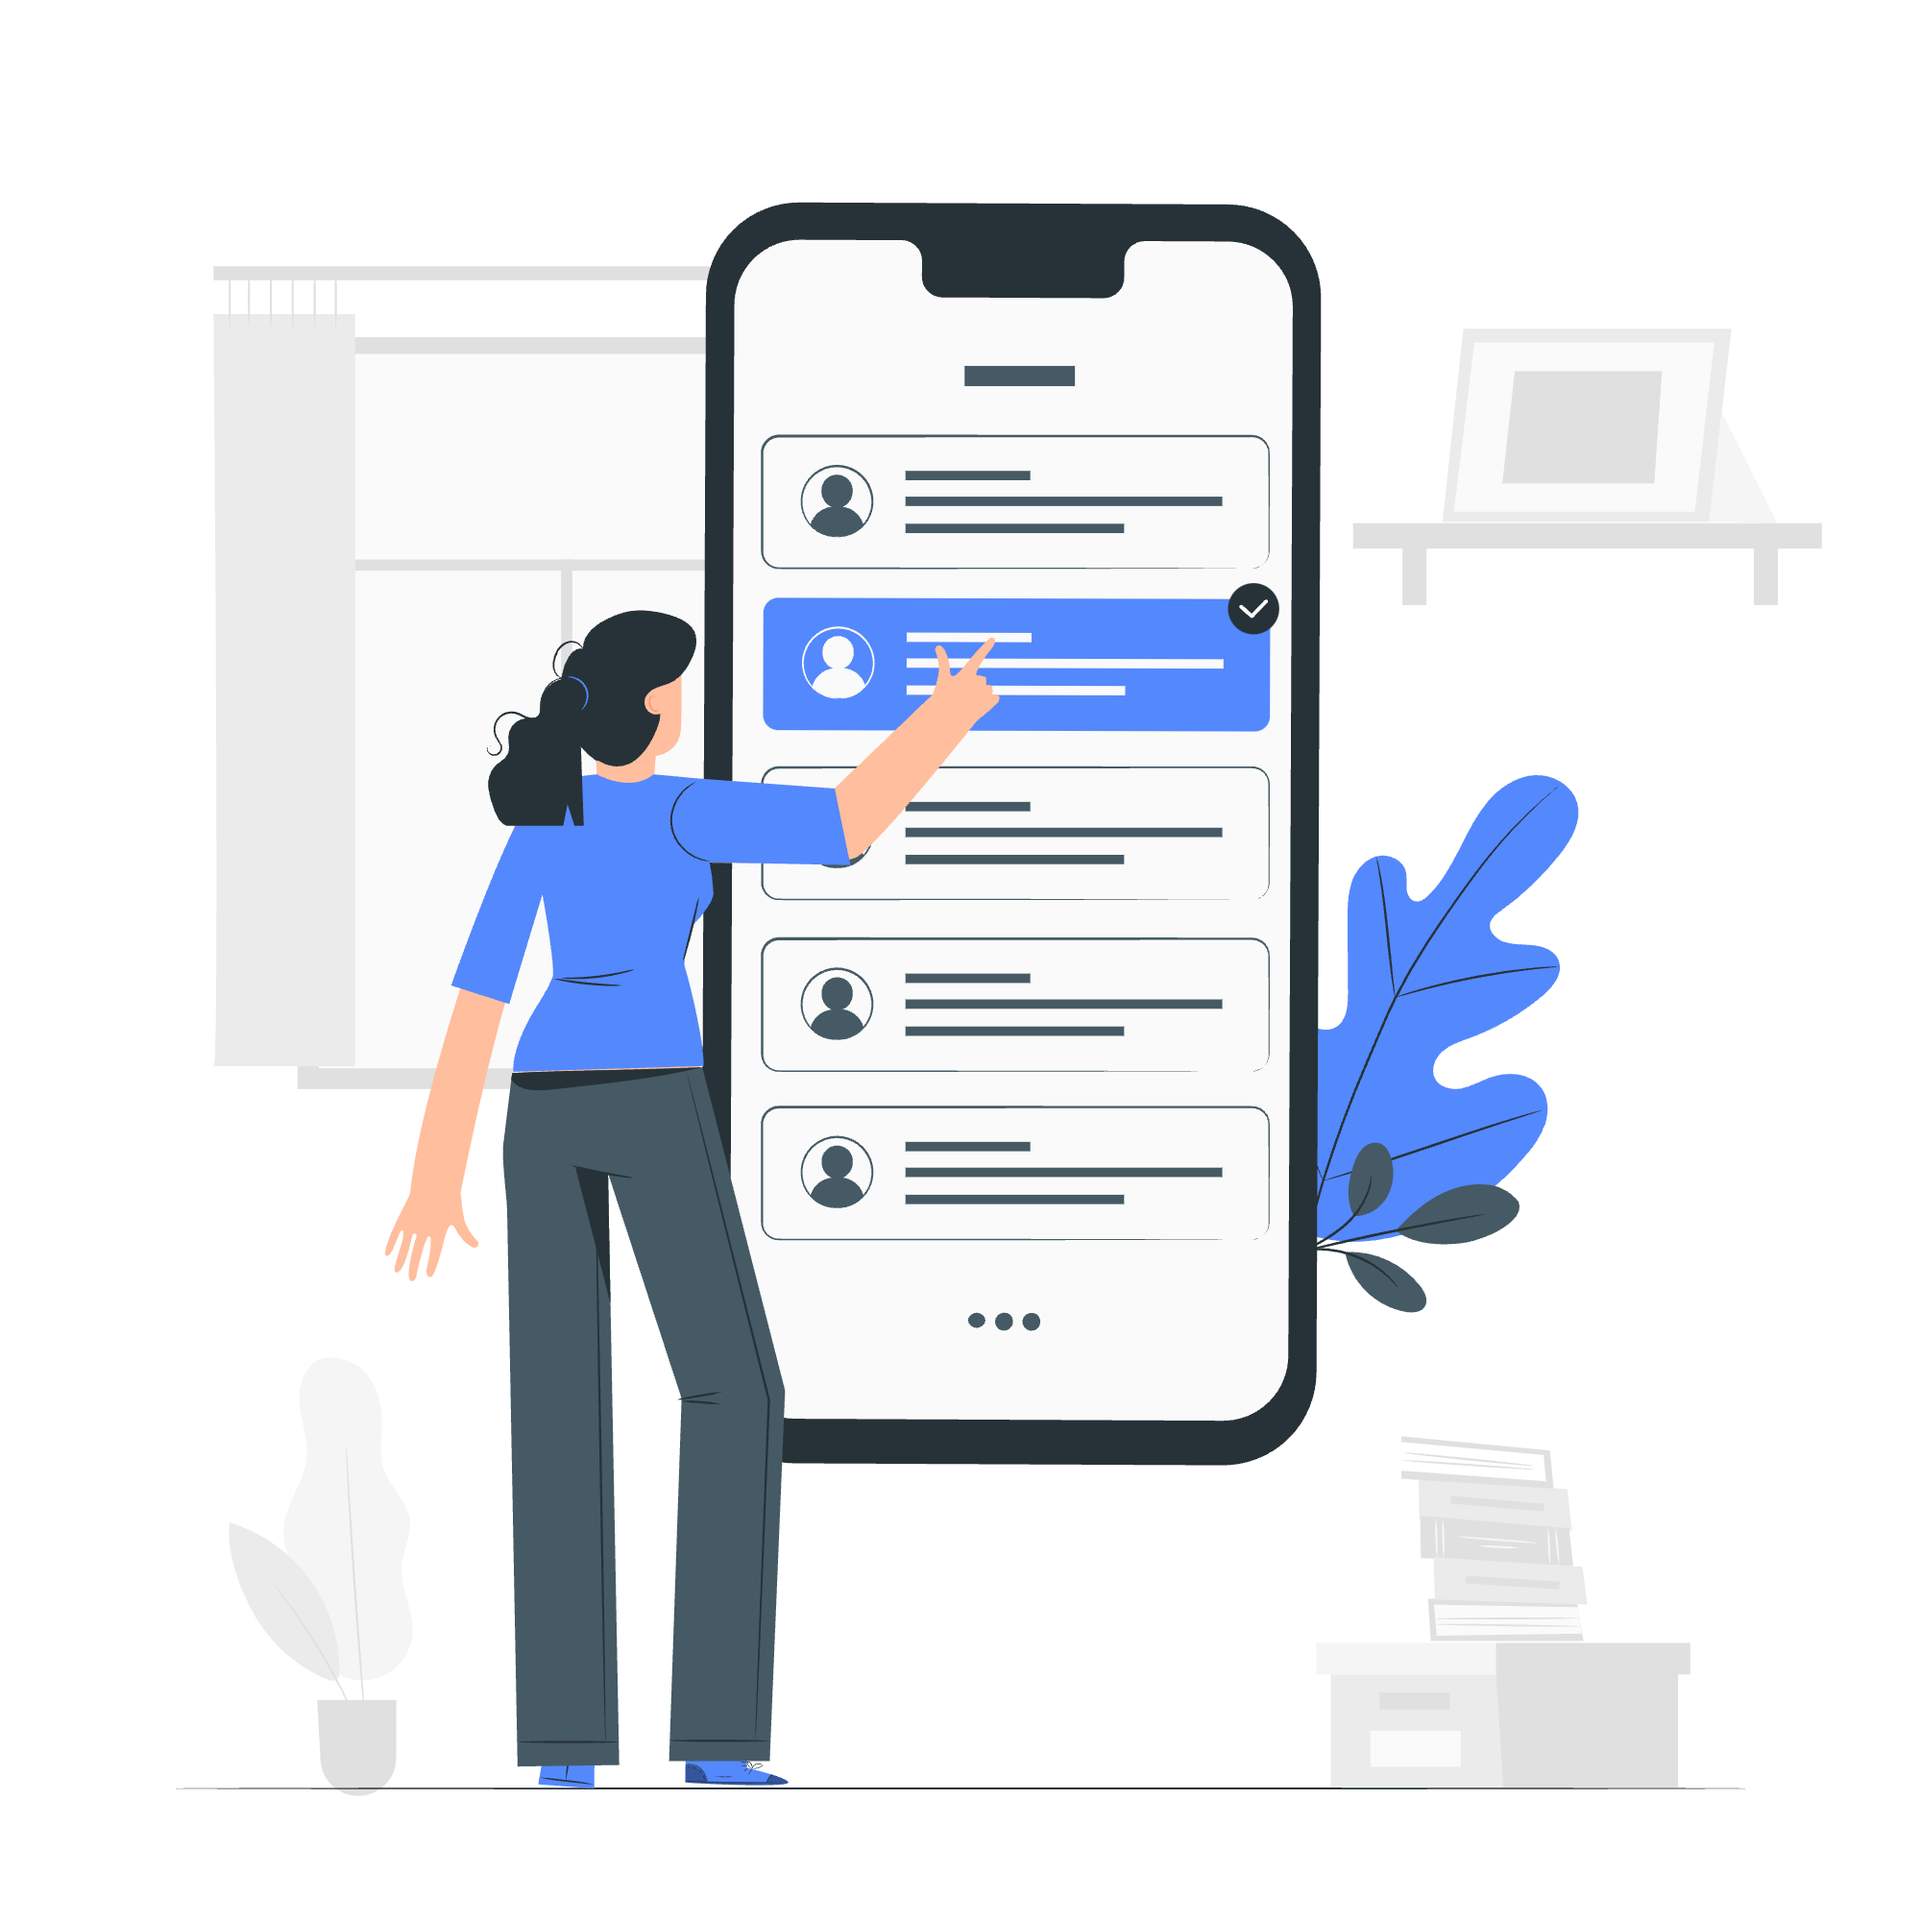
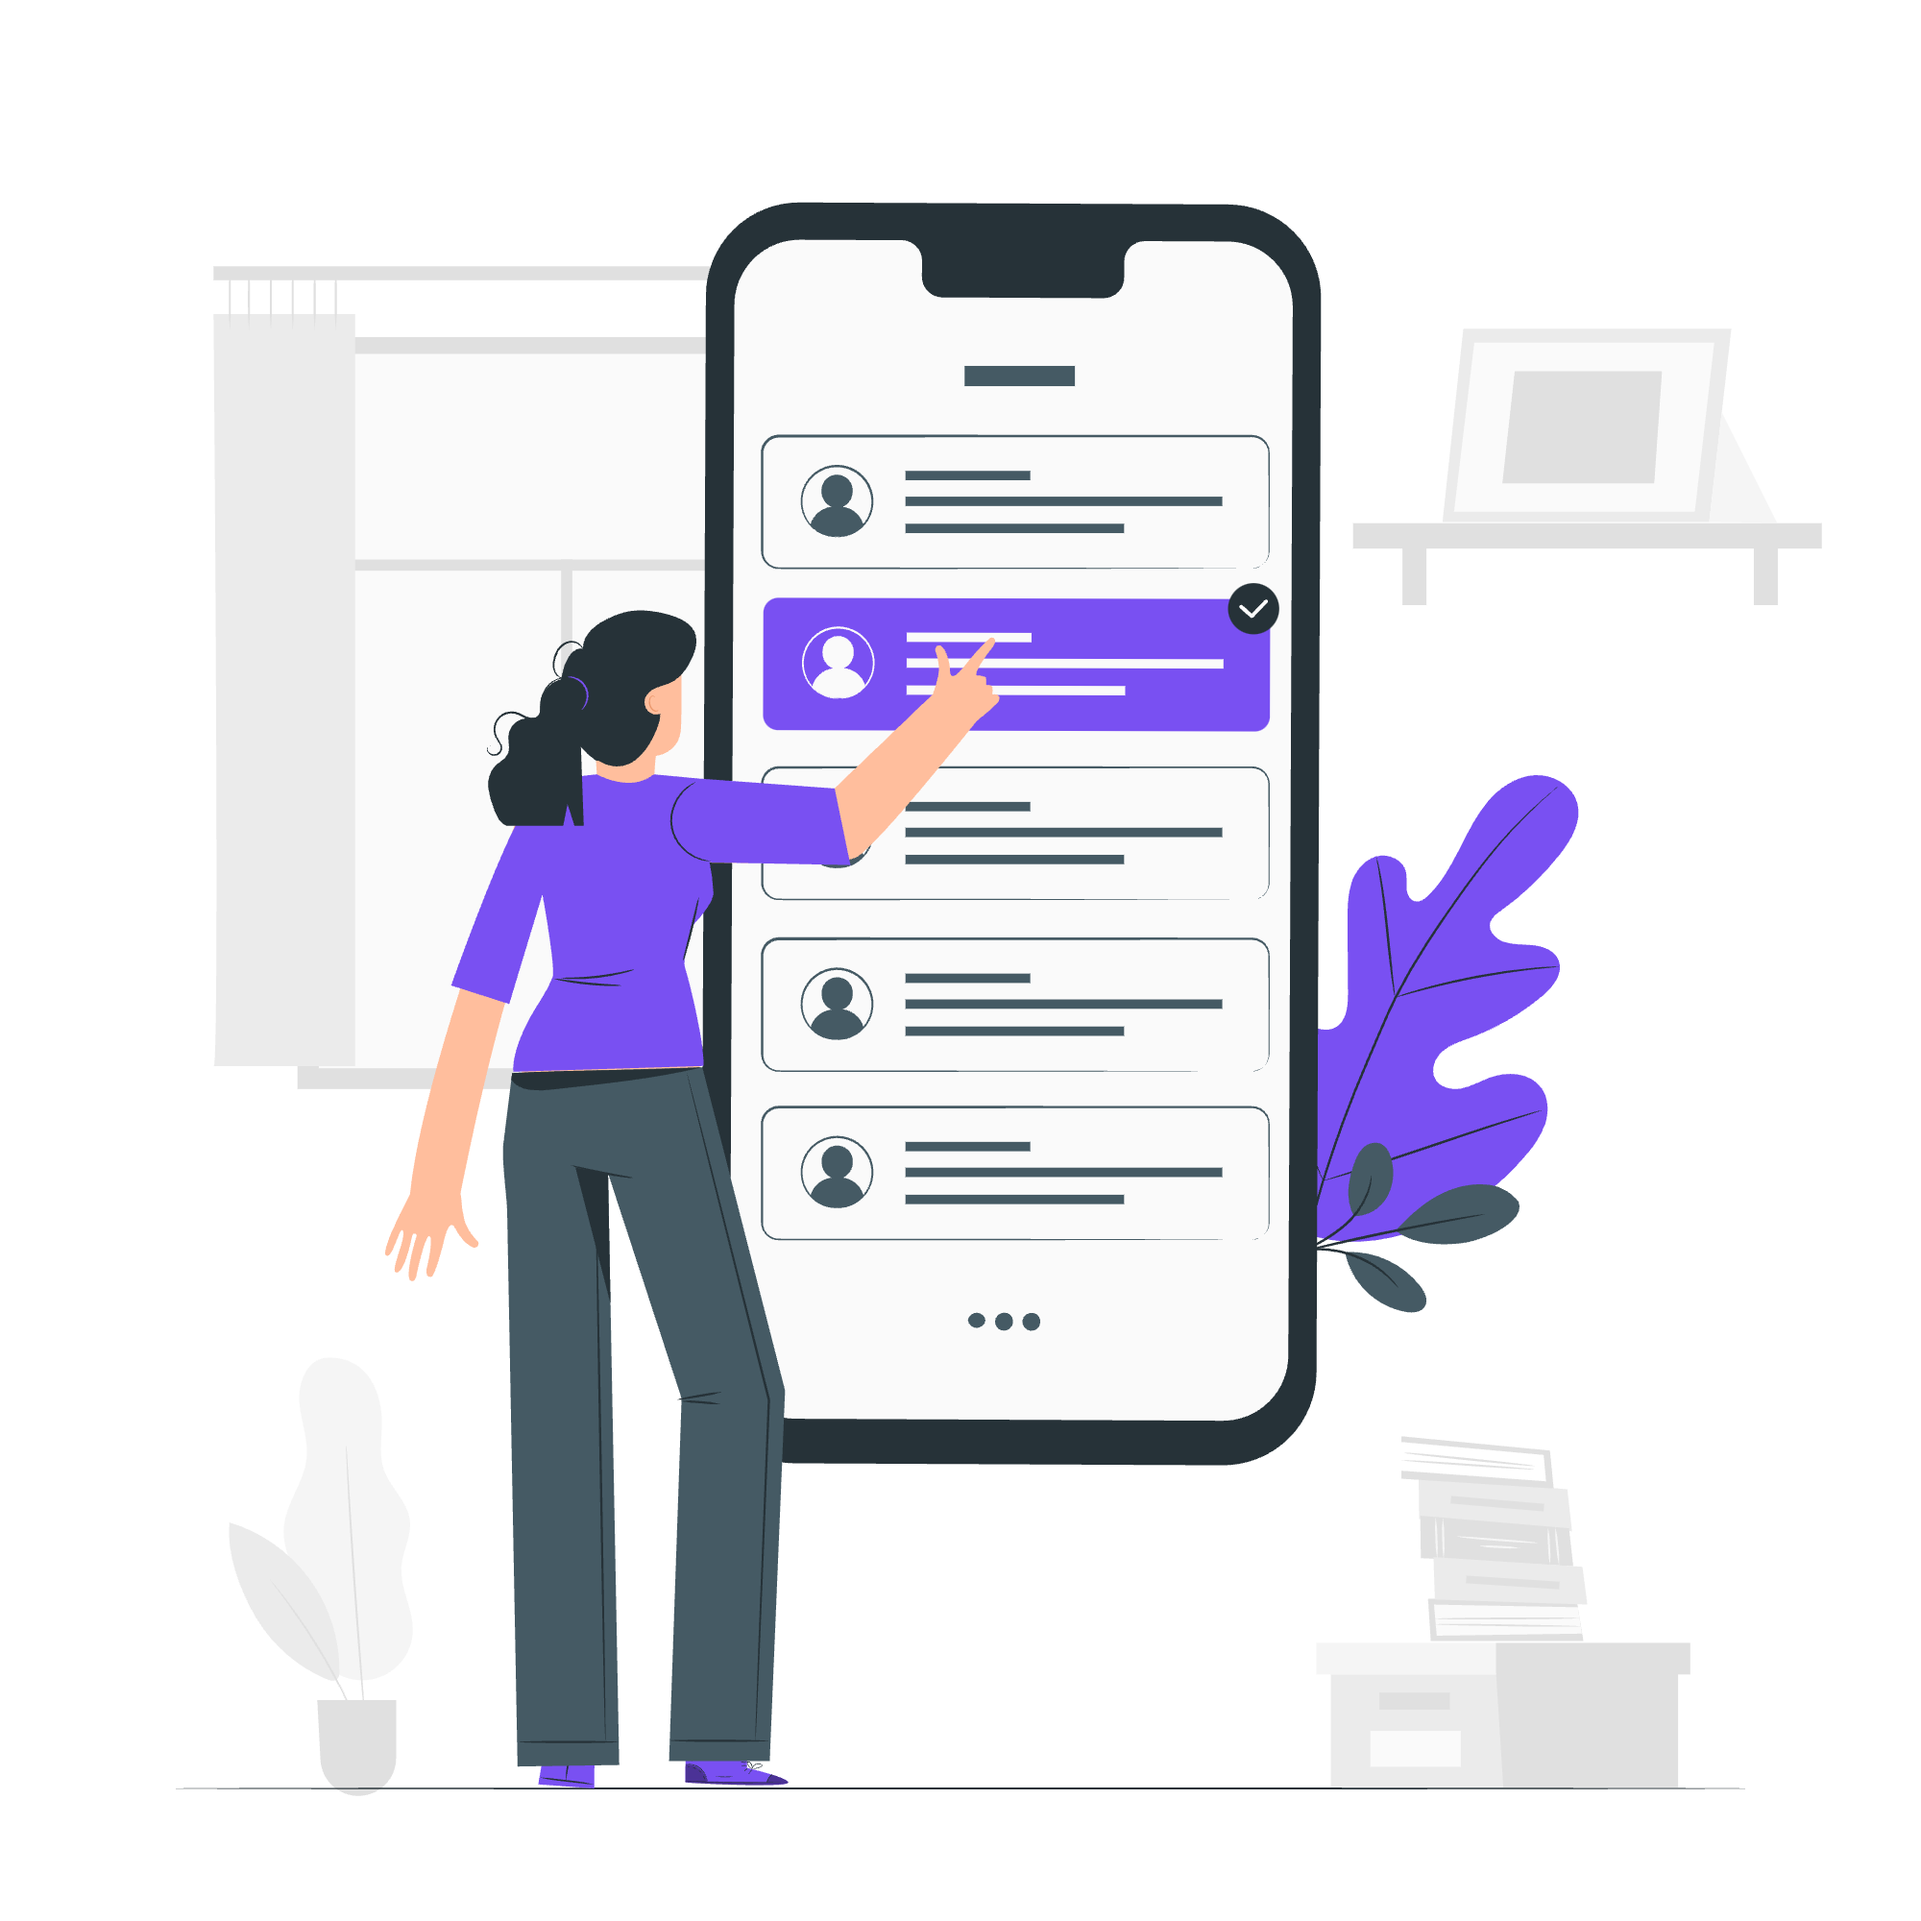
modify styles and update vector image

diff --git a/src/pages/dashboard/Dashboard.jsx b/src/pages/dashboard/Dashboard.jsx
@@ -69,7 +69,7 @@ function Dashboard() {
           >
             <Box sx={columnIconContainer}>
               <Box sx={columnIcon}>
-                <HiDocumentDuplicate color="#FB5252" size={30} />
+                <HiDocumentDuplicate color="#7950F2" size={30} />
               </Box>
             </Box>
             <Group
@@ -81,7 +81,7 @@ function Dashboard() {
                 Number of Booking
               </Text>
               {bookingLists.length ? (
-                <Text style={{fontSize: 36, fontWeight: 700}} color="#FB5252">
+                <Text style={{fontSize: 36, fontWeight: 700}} color="#7950F2">
                   {bookingLists.length}
                 </Text>
               ) : (
@@ -100,7 +100,7 @@ function Dashboard() {
           >
             <Box sx={columnIconContainer}>
               <Box sx={columnIcon}>
-                <AiOutlineSchedule color="#FB5252" size={30} />
+                <AiOutlineSchedule color="#7950F2" size={30} />
               </Box>
             </Box>
             <Group
@@ -113,7 +113,7 @@ function Dashboard() {
               </Text>
 
               {scheduleListsData.length ? (
-                <Text style={{fontSize: 36, fontWeight: 700}} color="#FB5252">
+                <Text style={{fontSize: 36, fontWeight: 700}} color="#7950F2">
                   {" "}
                   {scheduleListsData.length}
                 </Text>
@@ -133,7 +133,7 @@ function Dashboard() {
           >
             <Box sx={columnIconContainer}>
               <Box sx={columnIcon}>
-                <FiUsers color="#FB5252" size={30} />
+                <FiUsers color="#7950F2" size={30} />
               </Box>
             </Box>
             <Group
@@ -146,7 +146,7 @@ function Dashboard() {
               </Text>
 
               {userLists.length ? (
-                <Text style={{fontSize: 36, fontWeight: 700}} color="#FB5252">
+                <Text style={{fontSize: 36, fontWeight: 700}} color="#7950F2">
                   {" "}
                   {userLists.length}
                 </Text>

diff --git a/src/pages/About.jsx b/src/pages/About.jsx
@@ -5,18 +5,33 @@ const AboutPage = () => {
   return (
     <>
       <Container size="xl">
-        <Grid mt={26} mb={26}>
+        <Grid
+          mb={26}
+          style={{
+            display: "flex",
+            alignItems: "center",
+          }}
+        >
           <Grid.Col span={12} md={6}>
             <img
-              src="https://img.freepik.com/free-vector/about-us-concept-illustration_114360-669.jpg?w=1380&t=st=1692824755~exp=1692825355~hmac=9dd05cb9684993497799f231e080d3b3011446d90c292ebfd2fb8179c2efb688"
+              src="http://localhost:3000/images/about-us.png"
               alt=""
               style={{
                 width: "650px",
+                marginTop: "50px",
               }}
             />
           </Grid.Col>
           <Grid.Col span={12} md={6} mt={100}>
-            <h2 style={{textAlign: "center"}}>Welcome to Trip-Ticket,</h2>
+            <h2
+              style={{
+                textAlign: "center",
+                textDecoration: "underline",
+                color: "#7950F2",
+              }}
+            >
+              Welcome to Trip-Ticket
+            </h2>
             <h3>
               your one-stop destination for hassle-free and convenient bus
               ticket bookings. We are also available on online based ticket

diff --git a/src/components/HomeSection/HeroSection/index.jsx b/src/components/HomeSection/HeroSection/index.jsx
@@ -111,10 +111,11 @@ const HeroSection = () => {
         muted
         loop
         style={{
-          maxHeight: "800px",
-          minHeight: "calc(100vh - 59px)",
+          maxHeight: "500px",
+          minHeight: "calc(100vh - 300px)",
           objectFit: "cover",
           width: "100%",
+          filter: "blur(2px)",
         }}
       ></video>
       <Box
@@ -128,8 +129,8 @@ const HeroSection = () => {
           display: "flex",
           flexDirection: "column",
           justifyContent: "center",
-          maxHeight: "800px",
-          minHeight: "calc(100vh - 59px)",
+          maxHeight: "500px",
+          minHeight: "calc(100vh - 300px)",
         }}
       >
         <Container
@@ -150,7 +151,13 @@ const HeroSection = () => {
             className={classes.inputsContainer}
             p={10}
           >
-            <Grid align="center">
+            <Grid
+              align="center"
+              style={{
+                width: "100%",
+                paddingLeft: 20,
+              }}
+            >
               <Grid.Col xs={12} sm={10}>
                 <Grid align="center">
                   <Grid.Col xs={12} sm={4} mx={0}>

diff --git a/src/pages/ContactUs.jsx b/src/pages/ContactUs.jsx
@@ -1,6 +1,5 @@
 import React from "react";
-import Layout from "../components/Layout";
-import {Center, Container, Grid} from "@mantine/core";
+import {Container, Grid} from "@mantine/core";
 
 const ContactUsPage = () => {
   return (
@@ -8,7 +7,7 @@ const ContactUsPage = () => {
       <Grid mt={26} mb={26} v>
         <Grid.Col span={12} md={6}>
           <img
-            src="https://img.freepik.com/free-vector/contact-us-concept-illustration_114360-1850.jpg?w=996&t=st=1692821763~exp=1692822363~hmac=b3461a087d8ccbcbb550569b1672d457d6d3c068d99356b4ce527da4b03375ee"
+            src="http://localhost:3000/images/contact-us.png"
             alt=""
             style={{
               width: "450px",
@@ -34,7 +33,7 @@ const ContactUsPage = () => {
               help you.
             </h3>
             <h4>Phone: 01835859540</h4>
-            <h4>Email: support@eticket.com</h4>
+            <h4>Email: support@tripticket.com</h4>
             <h3>
               Our customer support team is available 24/7 to address any
               inquiries or issues you may encounter. Whether you need help

diff --git a/src/components/Footer/Footer.jsx b/src/components/Footer/Footer.jsx
@@ -68,10 +68,10 @@ const Footer = () => {
               >
                 trip-ticket, Inc.
               </span>{" "}
-              provide facilities to the travelers to find tour partner to
-              minimize their tour cost and also the travel &amp; tour companies
-              to provide better service with a very interactive content
-              management system to easily access the information etc!
+              provide facilities to the bus booking system to short time and
+              also Bus companies to provide better service with a very
+              interactive content management system to easily access the
+              information etc!
             </small>
             <small style={{color: "#828894"}}>
               Copyright © 2022.{" "}

diff --git a/src/components/HomeSection/HeroSection/style.js b/src/components/HomeSection/HeroSection/style.js
@@ -11,5 +11,8 @@ export const useStyles = createStyles((theme) => ({
     background: theme.white,
     borderRadius: theme.radius.sm,
     color: theme.black,
+    height: 100,
+    justifyContent: "center",
+    display: "flex",
   },
 }));
